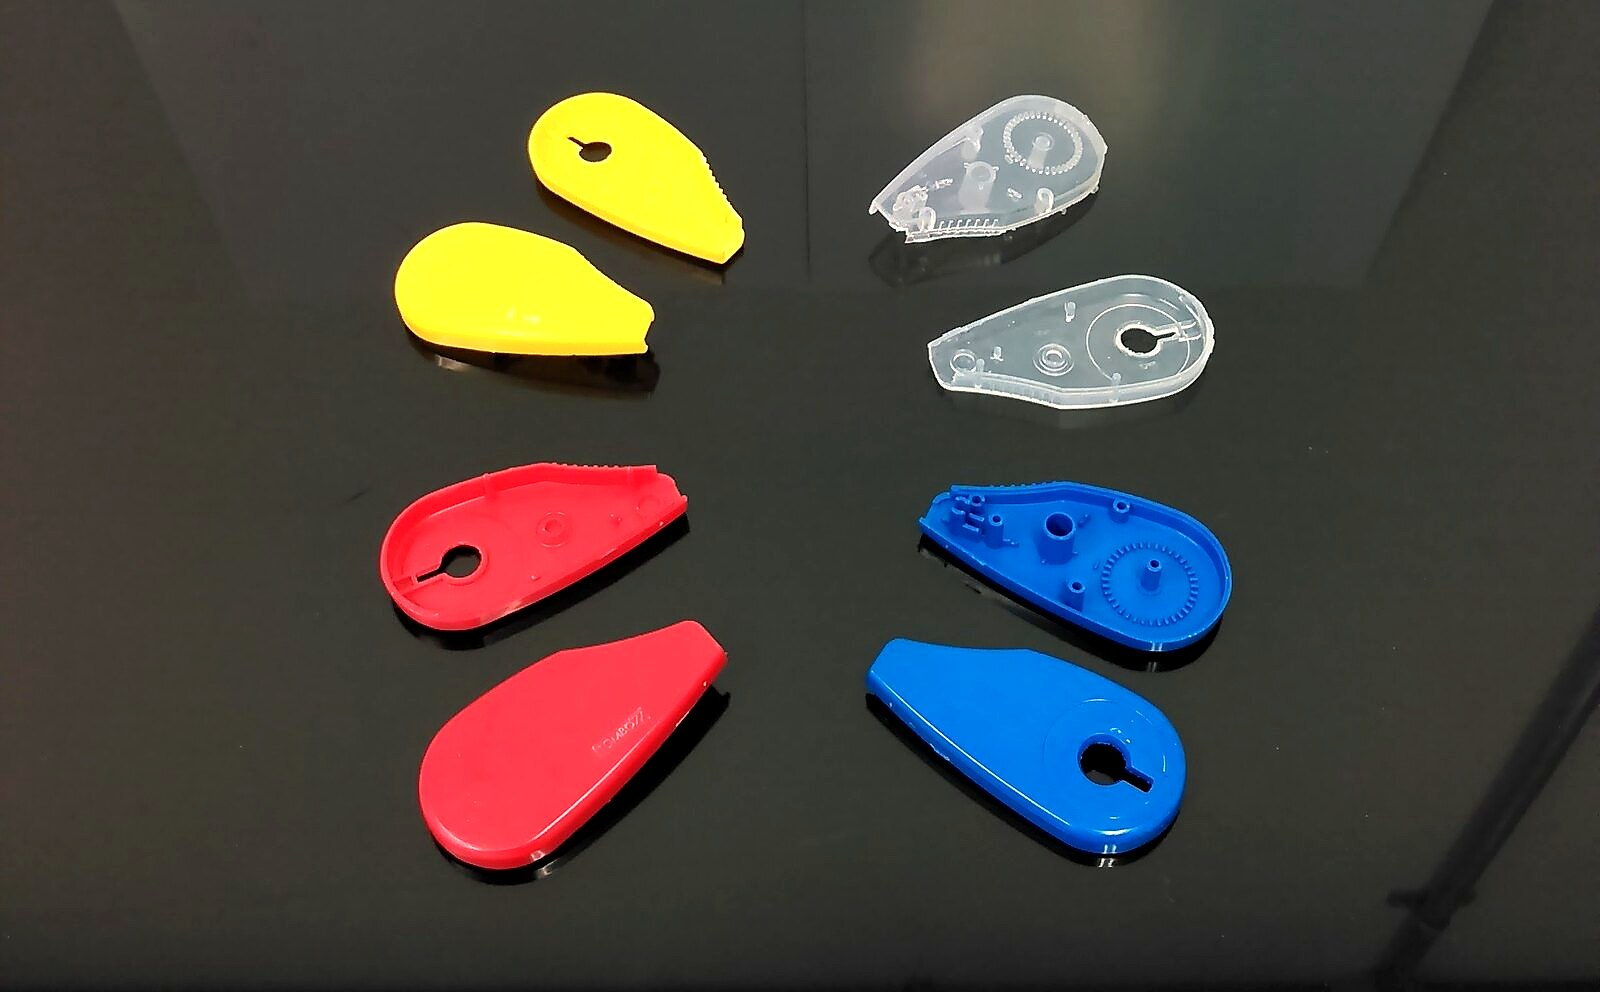
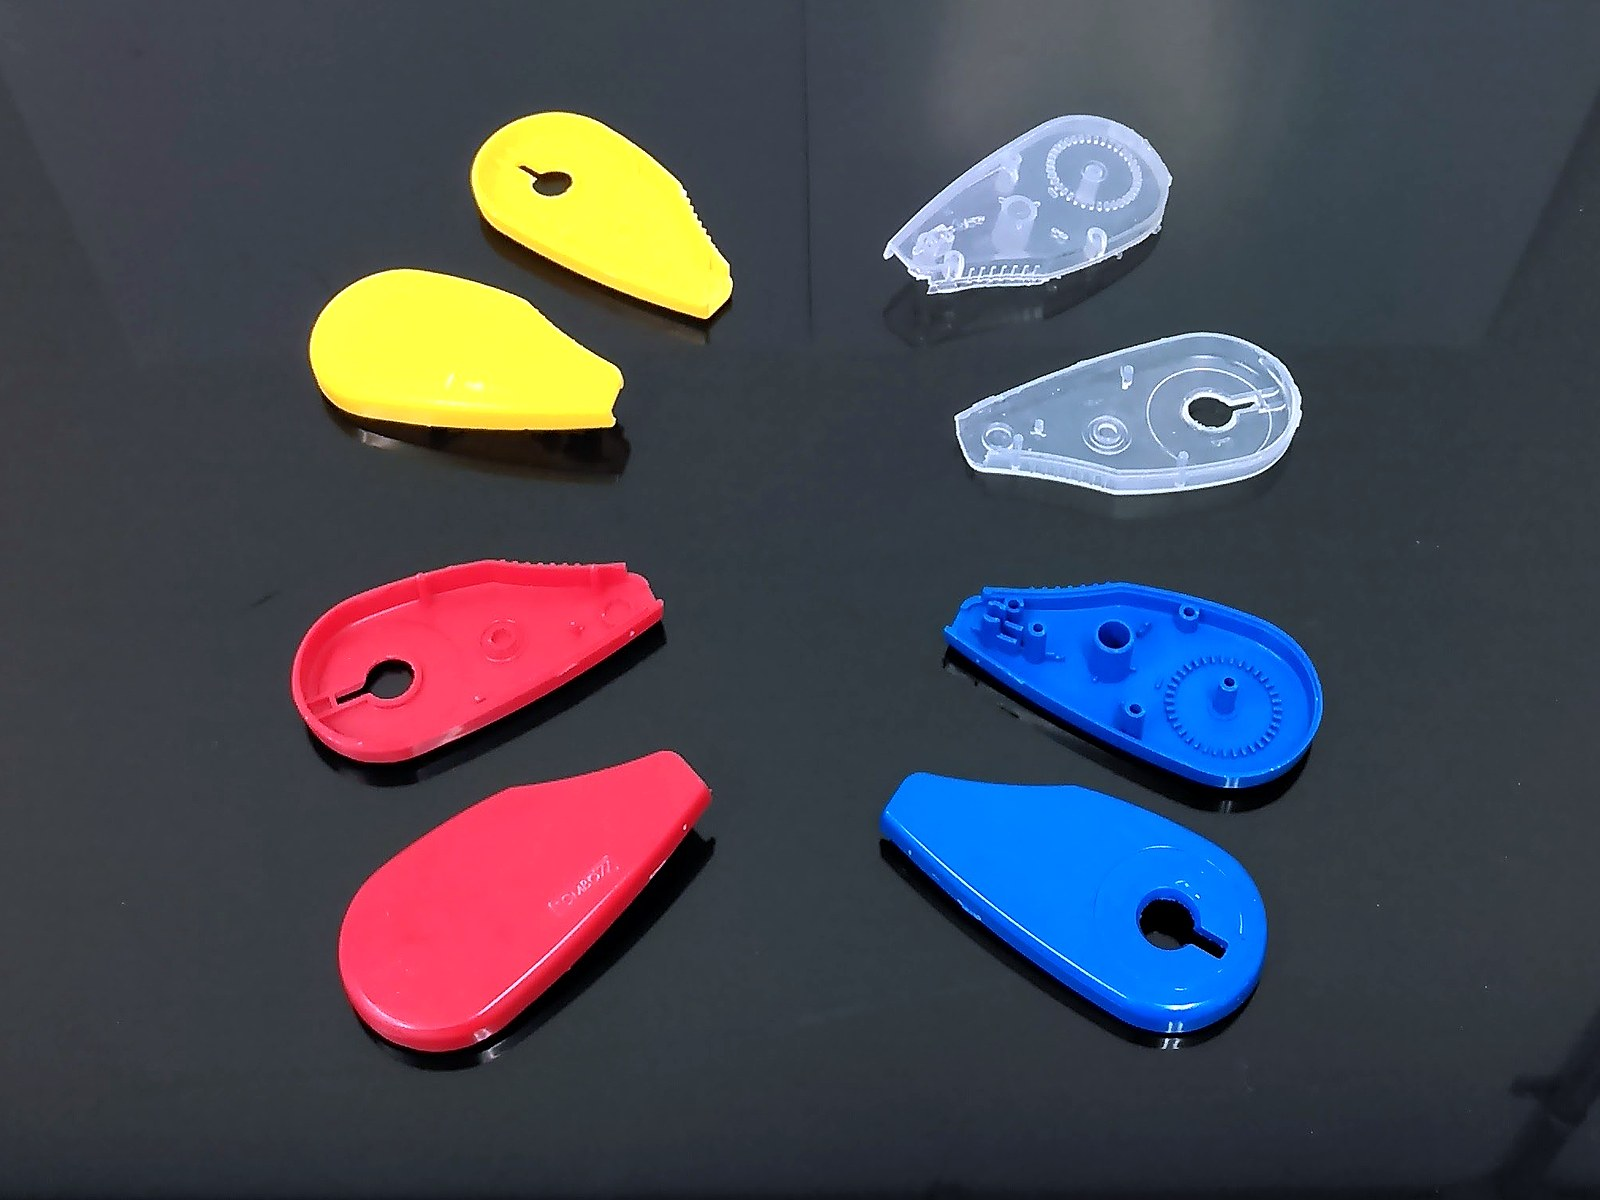
塗装カルーセルの余白バグを解消し、見た目を整える
「塗装のところがダサい」との指摘を受けて調査したところ、写真の質以前に
レイアウトのバグがあった。カルーセルは 16:9 の枠に object-fit: contain で
画像を入れていたが、6枚の縦横比が 1.00〜1.61 とバラバラで、平均26%が
薄い灰色（#eef0f1）の帯になっていた。特に painting-04 は正方形のため
画面の43.8%が灰色。さらにオーバーレイのラベルは枠基準の%配置なので、
文字が灰色帯の上に浮いていた。

- カルーセル6枚を 4:3 に統一（原本の高解像度から切り直し）。余白 26% → 0%
- painting-04 に焼き込まれていた赤い円形枠を除去。リング内径649pxを検出し
  内側を 4:3 で切り出したうえで拡大。光沢の平滑性が主役の絵になった
- 切り直しに伴いホワイトバランスとコントラストを再補正
  （painting-05 の緑カブリなど）
- .finish-carousel を暗いステージ配色に変更し、サイトのトーンと揃えた
- オーバーレイのラベルを 900 の極太＋囲み線から、左アクセントバー＋影に変更
- トップの塗装カードの filter: saturate(0.78) を解除。色そのものが商品の
  カードで彩度を落としていたため。hover 時の指定も揃えた

写真自体はスマホのフラッシュ撮影で背景が事務机のままなので、
img2img でモノを変えずに背景と光だけスタジオ化する案は未着手（14クレジット必要）。

Claude-Session: https://claude.ai/code/session_01Xd94FH7f7pz66F3SJYJcKB

diff --git a/styles.css b/styles.css
@@ -888,9 +888,18 @@ h1 .accent-word {
   transition: transform 900ms var(--ease), filter 500ms var(--ease);
 }
 
+/* 調色サンプルは色そのものが商品なので、彩度を落とさない */
+.pillar-media-vivid img {
+  filter: saturate(1.06) contrast(1.04);
+}
+
 .pillar:hover .pillar-media img {
   filter: saturate(1) contrast(1.06);
   transform: scale(1.06);
+}
+
+.pillar:hover .pillar-media-vivid img {
+  filter: saturate(1.12) contrast(1.04);
 }
 
 .pillar-media::after {
@@ -1763,20 +1772,26 @@ h1 .accent-word {
 .painting-overlay-label {
   position: absolute;
   z-index: 1;
-  max-width: 36%;
-  padding: 6px 10px;
+  max-width: 38%;
+  padding: 7px 11px 7px 13px;
   color: var(--color-ink);
-  background: rgba(255, 255, 255, 0.92);
-  border: 1px solid rgba(11, 12, 13, 0.16);
-  font-size: 13px;
-  font-weight: 900;
-  line-height: 1.45;
+  background: rgba(255, 255, 255, 0.94);
+  backdrop-filter: blur(6px);
+  box-shadow:
+    inset 3px 0 0 var(--color-ink),
+    0 6px 18px rgba(8, 9, 10, 0.18);
+  font-size: 12px;
+  font-weight: 700;
+  letter-spacing: 0.02em;
+  line-height: 1.5;
 }
 
 .painting-overlay-red {
   color: #ffffff;
   background: var(--accent);
-  border-color: var(--accent);
+  box-shadow:
+    inset 3px 0 0 var(--accent-deep),
+    0 6px 18px rgba(214, 50, 0, 0.28);
 }
 
 .painting-box-label-top {
@@ -1837,6 +1852,30 @@ h1 .accent-word {
   overflow: hidden;
   background: #eef0f1;
   border: 1px solid var(--color-line);
+}
+
+/* 塗装の見本は縦横比を 4:3 に統一済み。暗いステージで作品を見せる */
+.finish-carousel {
+  background: var(--color-dark);
+  border-color: var(--color-dark);
+}
+
+.finish-carousel img {
+  aspect-ratio: 4 / 3;
+  background: var(--color-dark);
+}
+
+.finish-carousel .carousel-progress {
+  background: var(--color-dark-soft);
+  border-top-color: rgba(255, 255, 255, 0.12);
+}
+
+.finish-carousel .carousel-progress span {
+  background: rgba(255, 255, 255, 0.22);
+}
+
+.finish-carousel .carousel-progress span.is-active {
+  background: var(--accent);
 }
 
 .design-carousel figure {
@@ -2324,9 +2363,9 @@ h1 .accent-word {
   }
 
   .painting-overlay-label {
-    max-width: 46%;
-    padding: 5px 8px;
-    font-size: 11px;
+    max-width: 48%;
+    padding: 5px 8px 5px 10px;
+    font-size: 10.5px;
   }
 
   .direct-call {

diff --git a/index.html b/index.html
@@ -173,8 +173,8 @@
 
           <div class="pillar-grid">
             <article class="pillar" data-reveal>
-              <div class="pillar-media">
-                <img src="./assets/images/service-painting-display.jpg" alt="塗装仕上げに対応した試作モデル" loading="lazy" />
+              <div class="pillar-media pillar-media-vivid">
+                <img src="./assets/images/service-painting-display.jpg" alt="メタリック調に調色した塗装サンプル" loading="lazy" />
                 <p class="pillar-index">01</p>
                 <div class="pillar-title">
                   <small>Painting</small>
